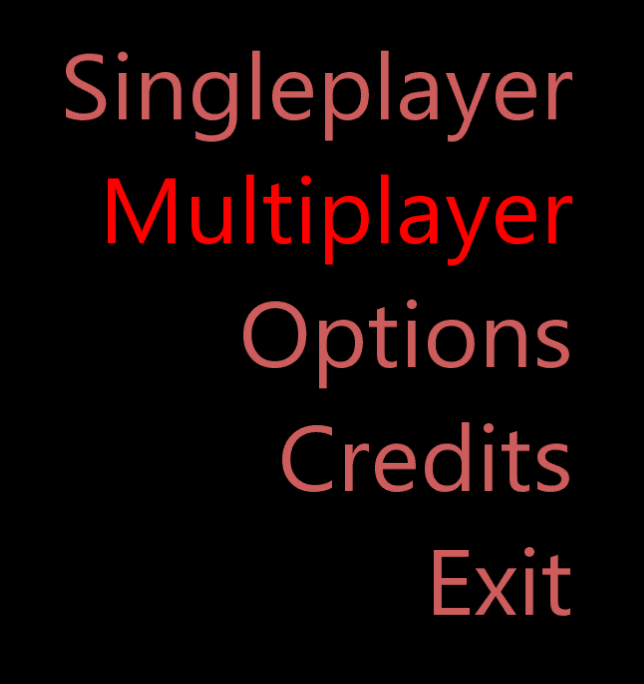
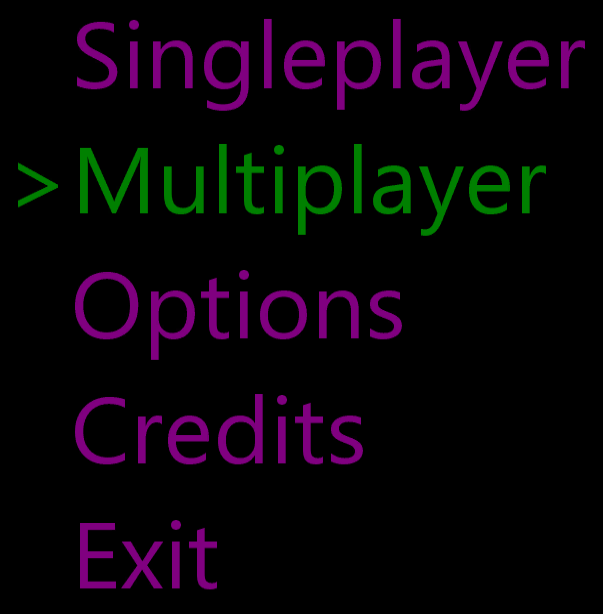
:game_die:

diff --git a/example/SimpleMenu/SimpleMenu.cs b/example/SimpleMenu/SimpleMenu.cs
@@ -34,9 +34,6 @@ namespace SimpleMenu
             cursor = Content.Load<Texture2D>("img/cursor");
             menu = new SimpleTextUI(this, big, new[] { "Singleplayer", "Multiplayer", "Options", "Credits", "Exit" })
             {
-                Align = Alignment.Right,
-                TextColor = Color.LightGreen,
-                SelectedElement = new MultiTextElement("> ", " <", Color.LimeGreen)
             };
             options = new SimpleTextUI(this, big, new TextElement[]
             {

diff --git a/example/SimpleMenu/SimpleTextUI.cs b/example/SimpleMenu/SimpleTextUI.cs
@@ -157,7 +157,7 @@ namespace A1r.SimpleTextUI
         public SimpleTextUI(Game game, SpriteFont font) : base(game)
         {
             batch = new SpriteBatch(Game.GraphicsDevice);
-            padding = new Vector2(0);
+            padding = new Vector2(100);
             _font = font;
             selectedElement = new TextElement("", Color.LimeGreen);
         }

diff --git a/README.md b/README.md
@@ -13,9 +13,9 @@ Inspired by N++ (metanetsoftware)
     var items = new[] { "Singleplayer", "Multiplayer", "Options", "Credits", "Exit" };
     var menu = new SimpleTextUI(this, font, items)
     {
-        TextColor = Color.IndianRed,
-        SelectedColor = Color.Red,
-        Align = Alignment.Right
+        TextColor = Color.Purple,
+        SelectedElement = new TextElement(">", Color.Green),
+        Align = Alignment.Left
     };
 
 **Navigating through menus**
